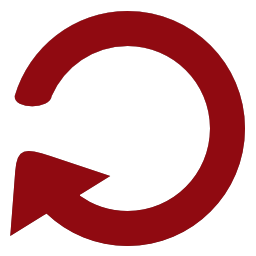
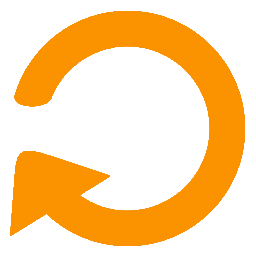
replay button styling

diff --git a/src/lib/components/frontComps.jsx b/src/lib/components/frontComps.jsx
@@ -202,15 +202,15 @@ class FrontComps extends React.Component {
               const nextShowPlaylistVal = !this.state.showPlaylist;
               this.setState({showPlaylist: nextShowPlaylistVal});
             }}/>
-          <Shuffle shuffle={ this.state.shuffle } clickHandler={ ()=>{
-            let shuffleBool = this.state.shuffle;
-            this.setState({shuffle: !shuffleBool});
+          <Replay replay={ this.state.replay } clickHandler={ ()=>{
+            let replayBool = this.state.replay;
+            this.setState({replay: !replayBool});
           } }
             filterDeg={ this.globalFilterDig }
           />
-        <Replay replay={ this.state.shuffle } clickHandler={ ()=>{
-            let replayBool = this.state.replay;
-            this.setState({replay: !replayBool});
+          <Shuffle shuffle={ this.state.shuffle } clickHandler={ ()=>{
+            let shuffleBool = this.state.shuffle;
+            this.setState({shuffle: !shuffleBool});
           } }
             filterDeg={ this.globalFilterDig }
           />

diff --git a/src/lib/components/front/replay.jsx b/src/lib/components/front/replay.jsx
@@ -8,6 +8,6 @@ export const Replay = ({clickHandler, replay, filterDeg}) => {
     )
   }
   return (
-    <img className='replay' src='images/replay1.png' onClick={ clickHandler }></img>
+    <img className='replay' src='images/replay0.png' onClick={ clickHandler }></img>
   )
 }

diff --git a/src/lib/App.jsx b/src/lib/App.jsx
@@ -19,6 +19,7 @@ import '../styles/playlistScreen.css';
 import '../styles/playlistContent.css';
 import '../styles/playlistHeader.css';
 import '../styles/shuffle.css';
+import '../styles/replay.css';
 
 import FrontComps from './components/frontComps.jsx';
 

diff --git a/src/styles/replay.css b/src/styles/replay.css
@@ -1,0 +1,5 @@
+.replay {
+  margin-top: 1.5vh;
+  width: 2.5vw;
+  height: 3vh;
+}
